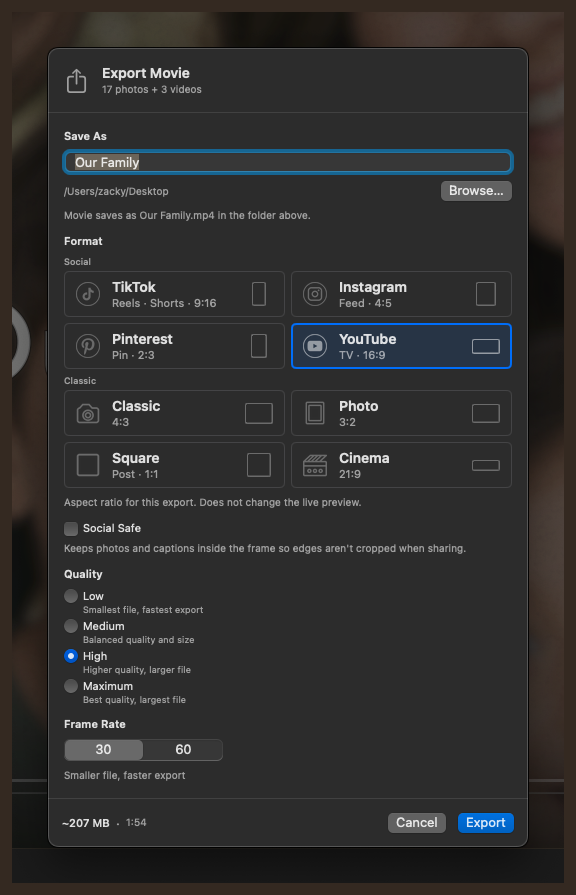
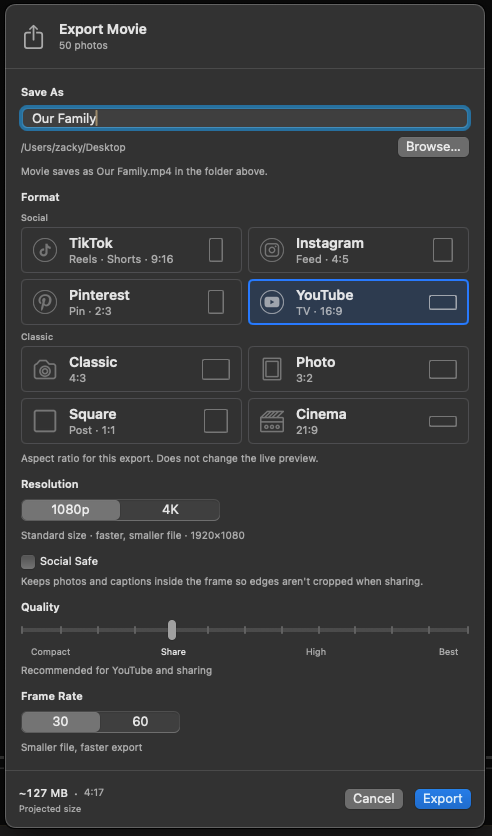
Replace Export dialog screenshot for 4K and Compact–Best.
Essential shot: Resolution, Quality stops, and projected size visible;
Mbps readout stays prose-only for Studio. Unpushed until ship.

Changed region(s): [[0.0, 0.0, 1.0, 1.0], [0.8232, 0.4665, 0.8537, 0.4976]]

diff --git a/export.md b/export.md
@@ -82,7 +82,7 @@ It turns **on** automatically for **9:16**, **4:5**, and **2:3**. It stays **off
 
 Toolbar **Export** or **File → Export Movie…** (**⌘E**).
 
-![Save As, Format, Resolution, Social Safe, Quality, Frame Rate, Projected size](../.gitbook/assets/export-dialog.png)
+![Export Movie: Save As, Format, Resolution, Social Safe, Quality (Compact–Best), Frame Rate, Projected size](../.gitbook/assets/export-dialog.png)
 
 - **Save As** — filename; **Browse…** for the folder. Default name prefers title text, then the project name, then **Untitled Memory**. The file is `.mp4`.
 - **Format** — destination swatches for **this encode** (does not change the live preview)
